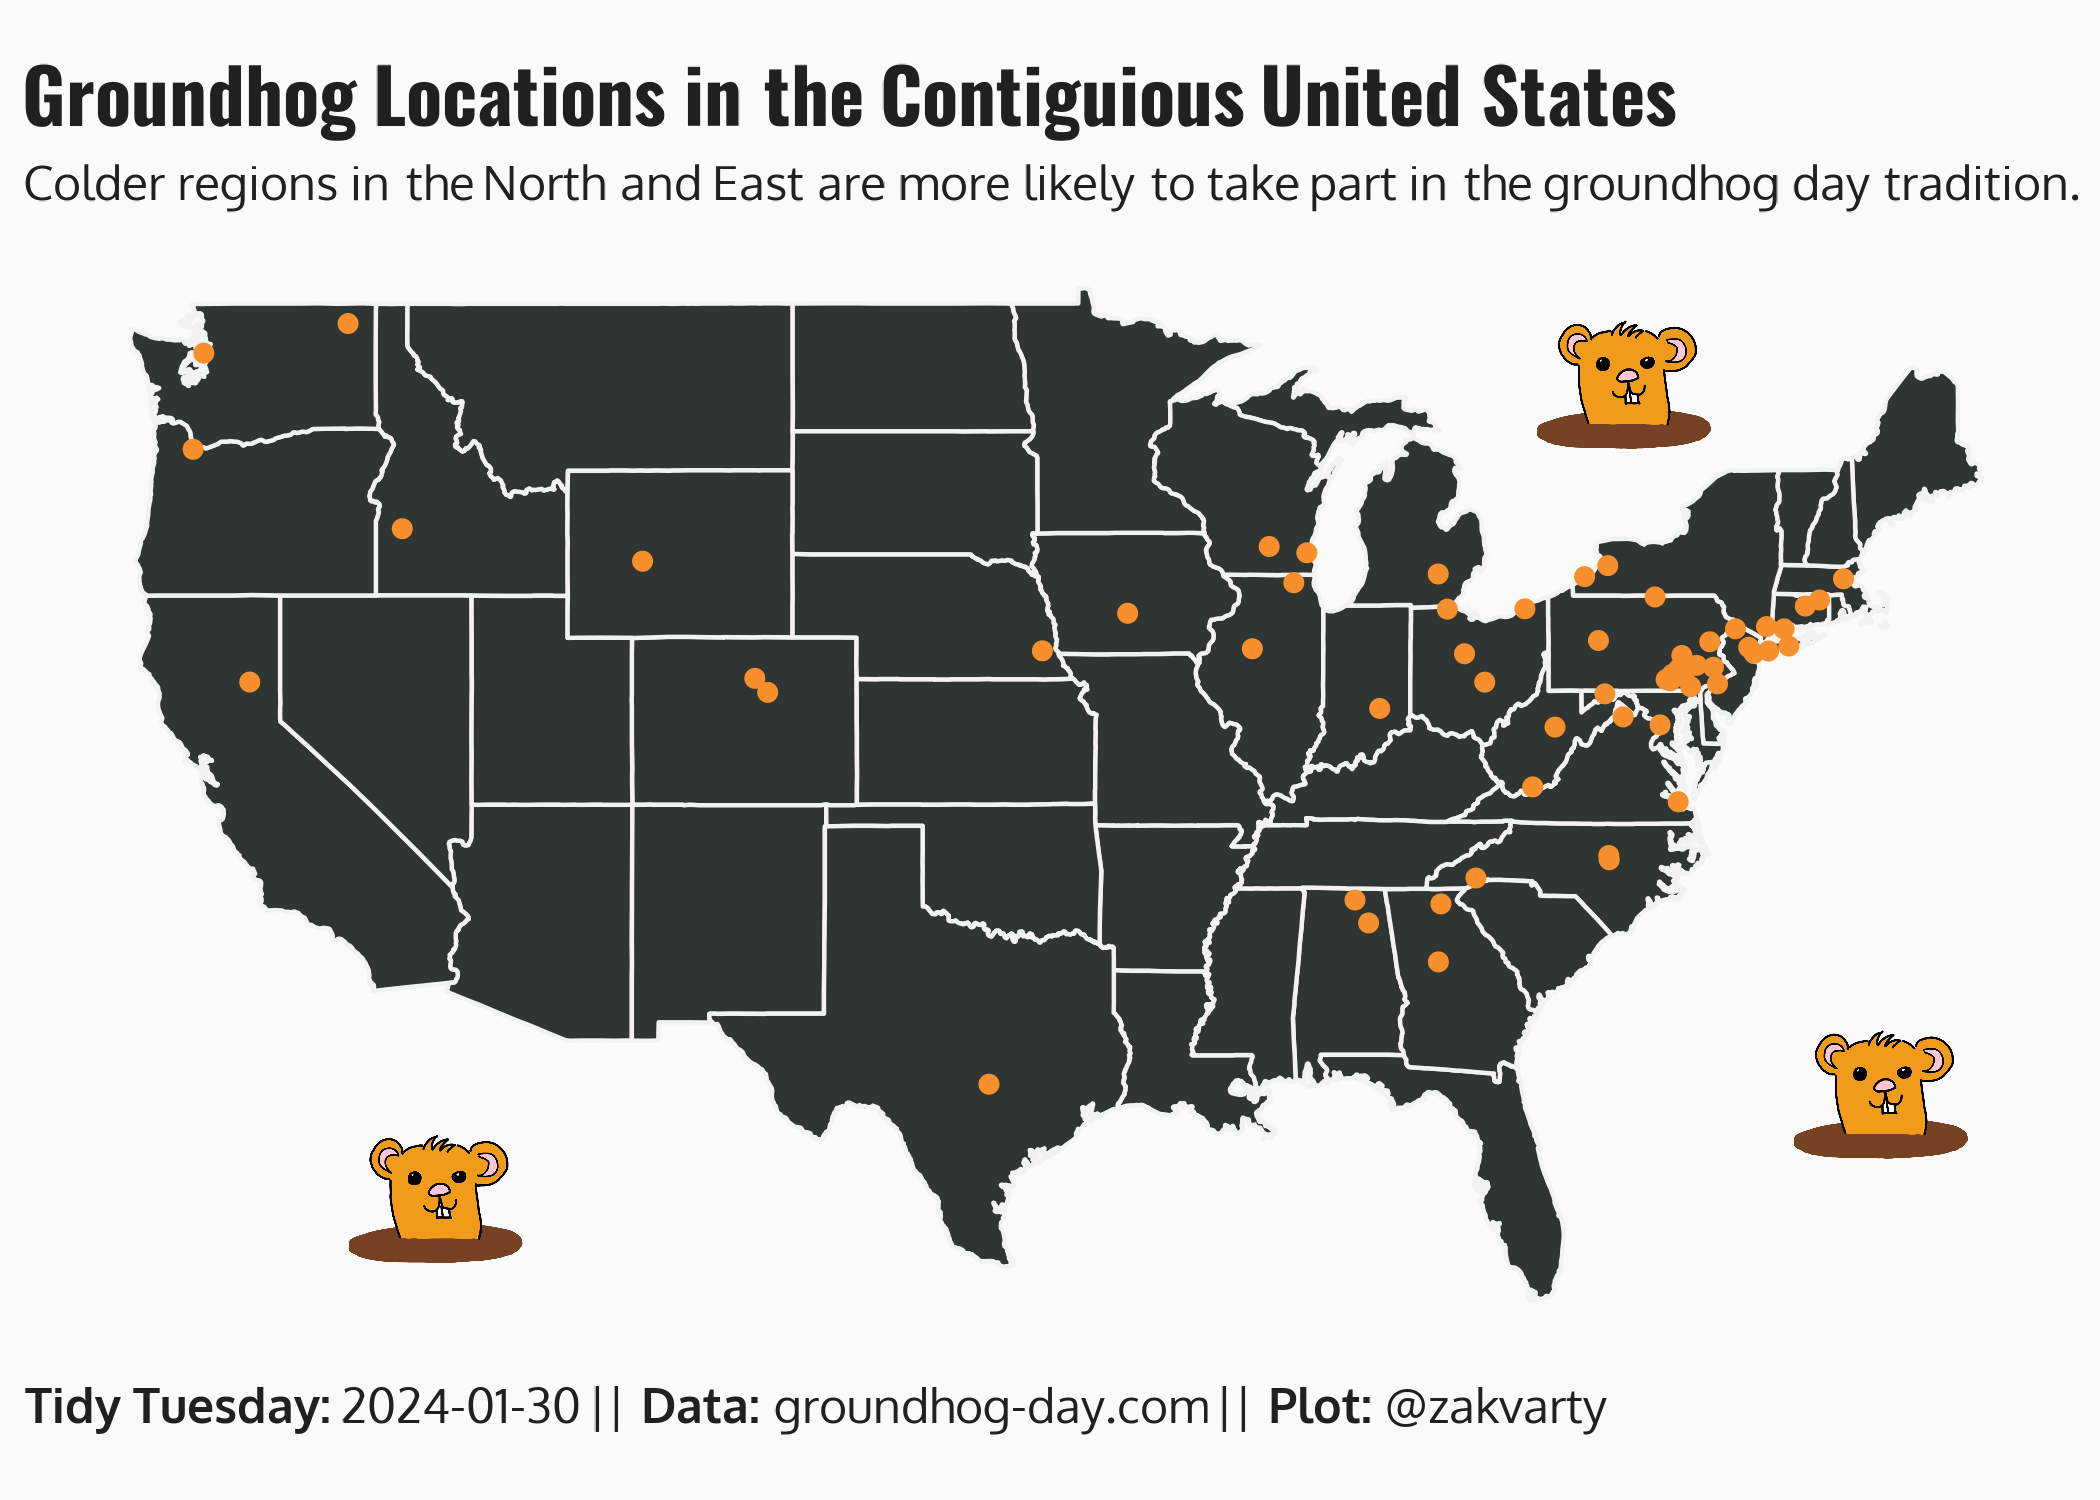
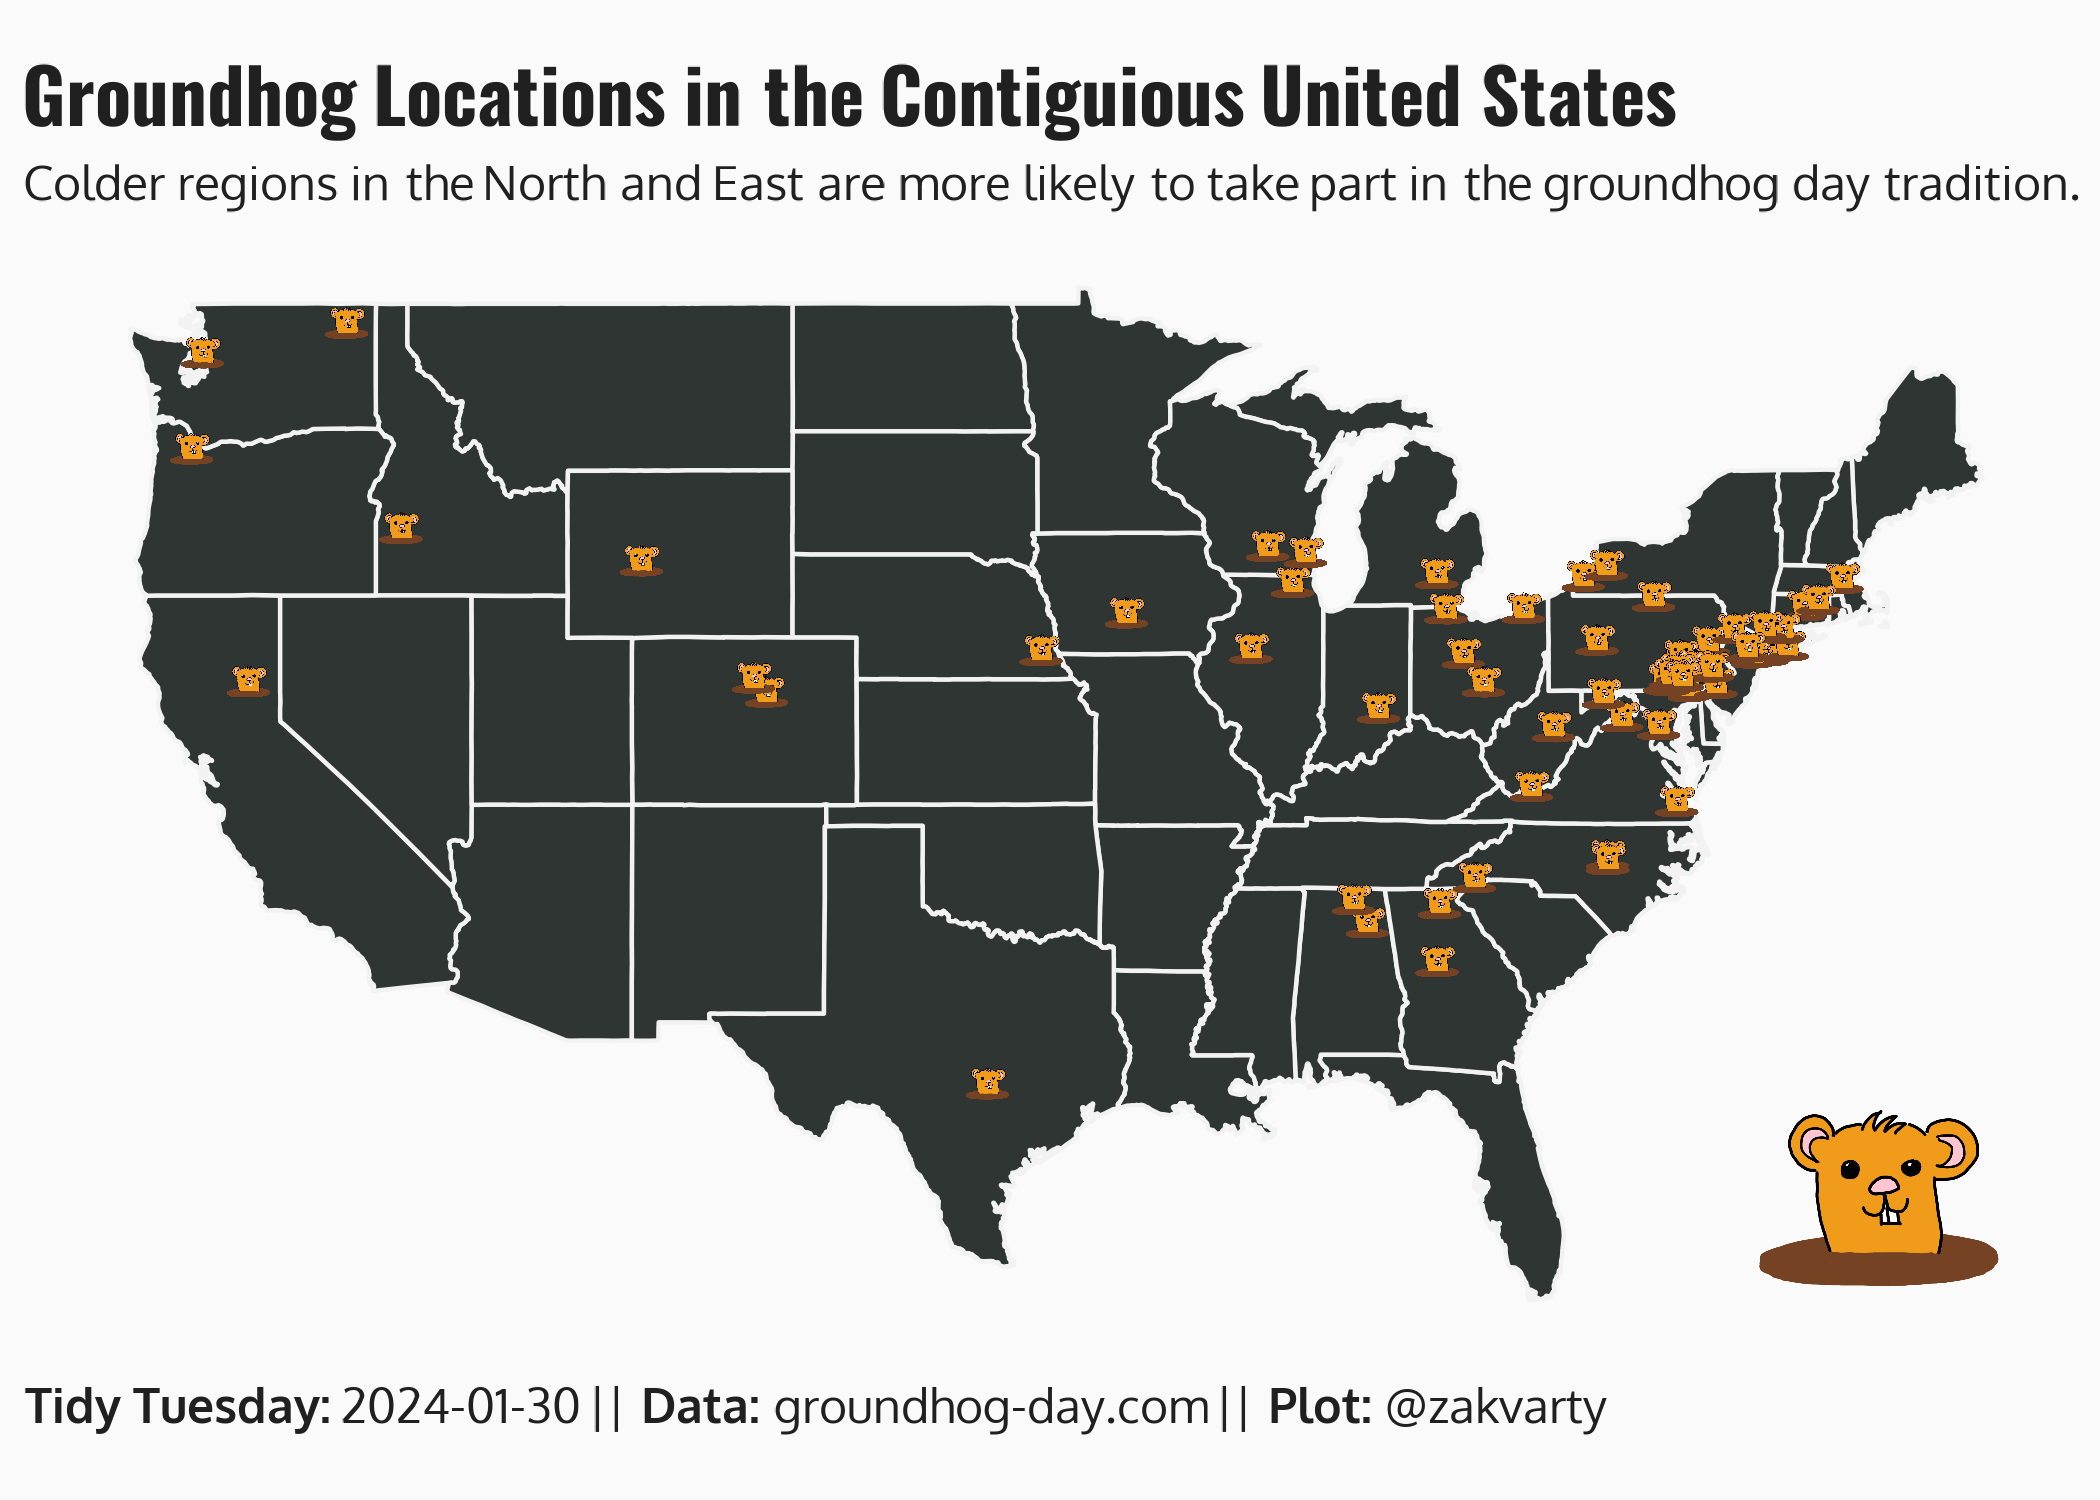
swap to groundhog pch with transparent backgound

diff --git a/2024/2024-01-30-groundhog-day/README.md b/2024/2024-01-30-groundhog-day/README.md
@@ -31,8 +31,6 @@ I also played around with adding images to `{ggplot2}` objects using `{ggimage}`
   <img src="./groundhog-day.png" width="60%">
 </p>
 
-My original plan was to have a groundhog replace each orange dot, but I accidentally created the image with an off-white rather than transparent background. You live and you learn.
-
 ## Recording
 
 The making of this visualisation was recorded with the `{camcorder}` package.
